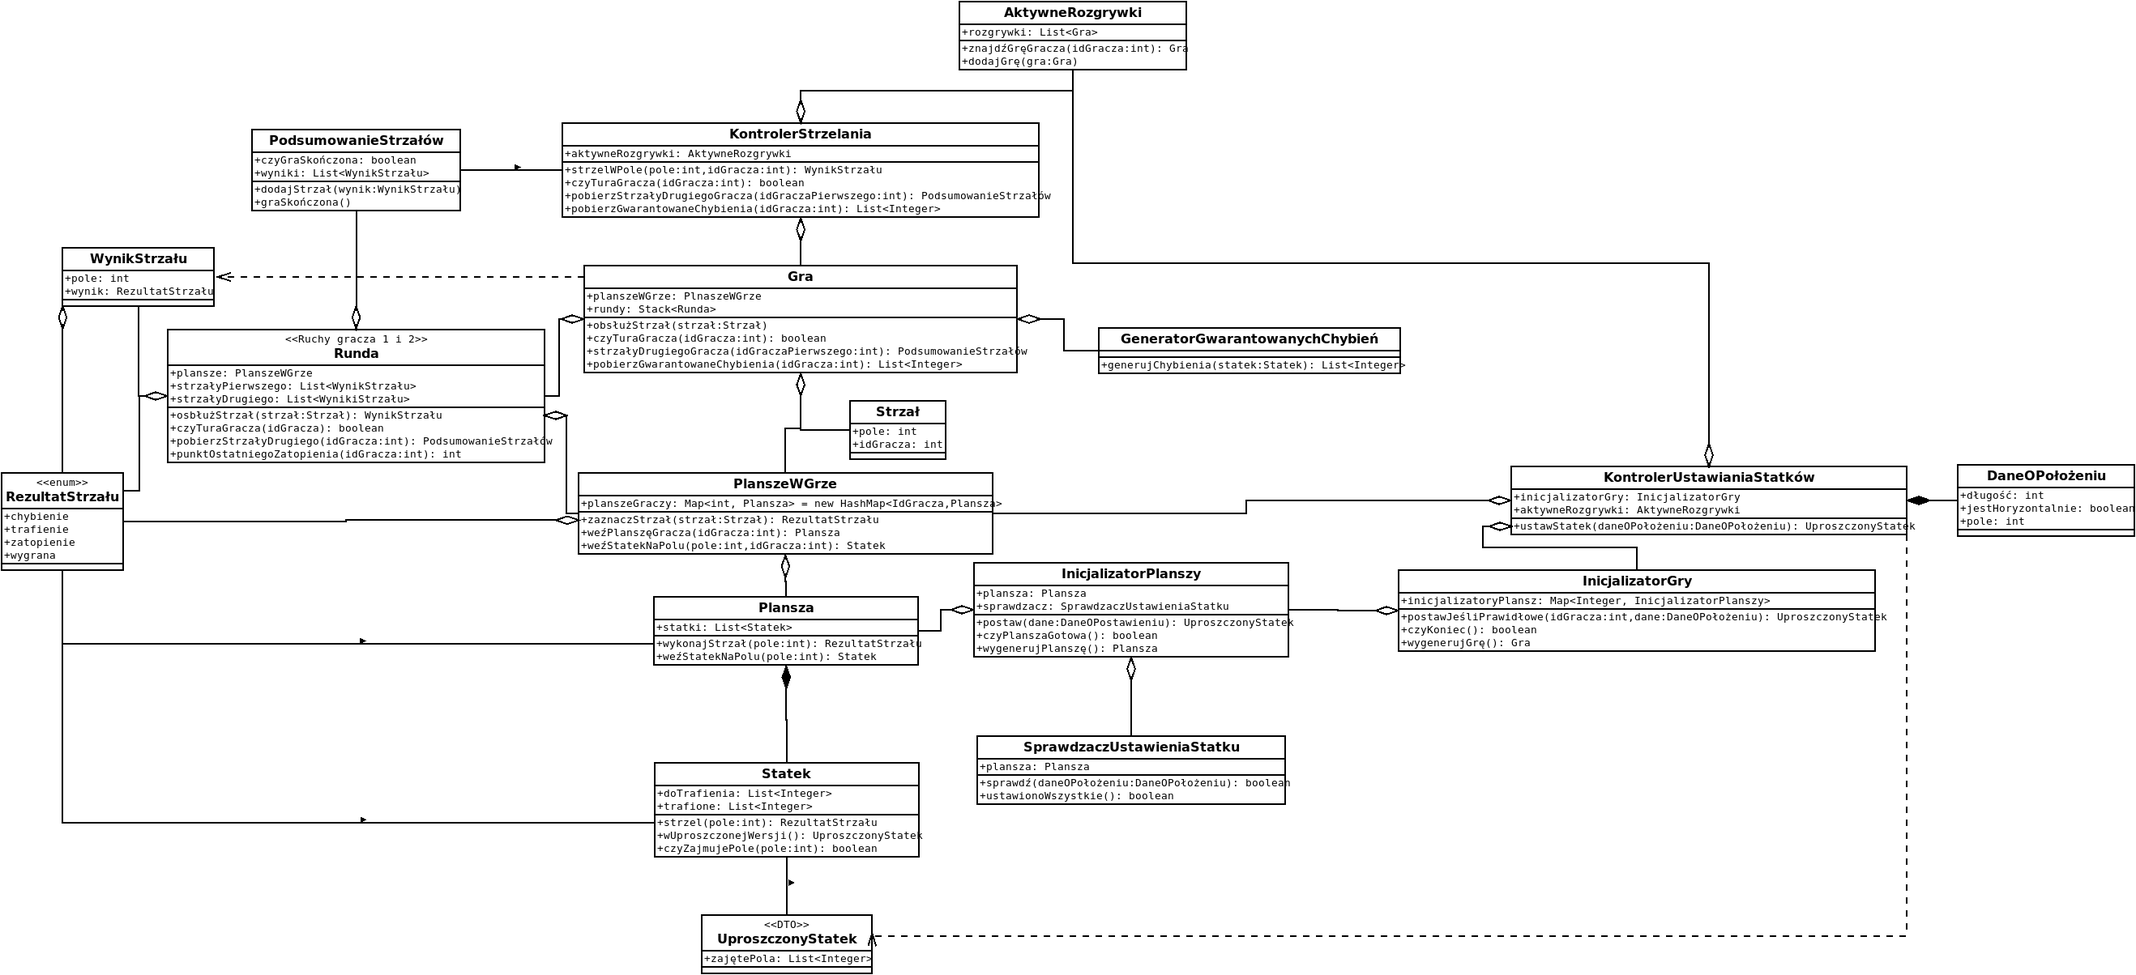
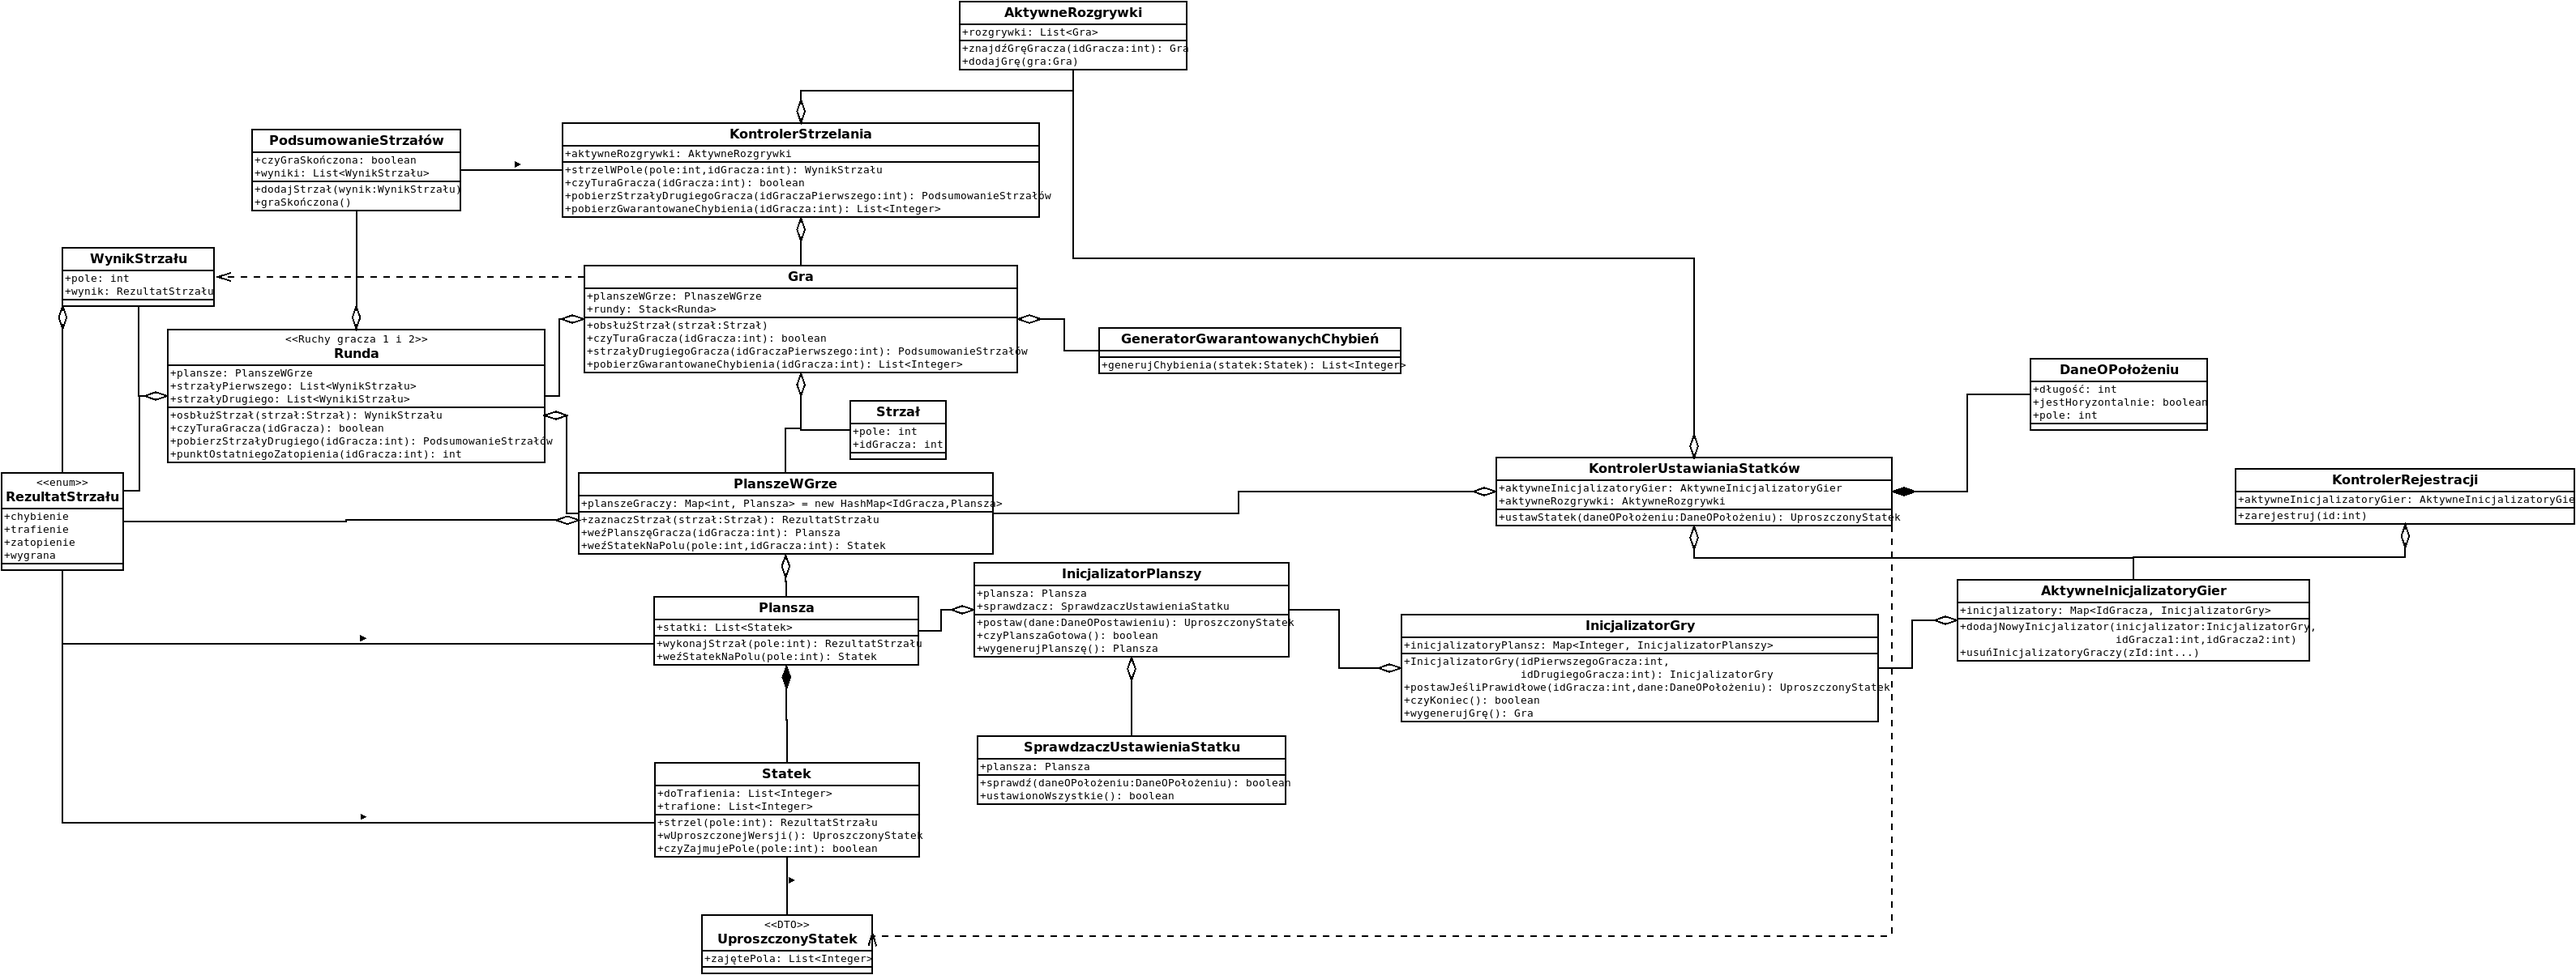
Planned registration on UML diagram - deleted stub register

diff --git a/server/src/main/java/com/sarny/spocone/server/gameControllers/ShotController.java b/server/src/main/java/com/sarny/spocone/server/gameControllers/ShotController.java
@@ -4,7 +4,6 @@ import com.google.gson.Gson;
 import com.sarny.spocone.publicclasses.shot.Shot;
 import com.sarny.spocone.publicclasses.shot.ShotsSummary;
 import com.sarny.spocone.server.game.Game;
-import com.sarny.spocone.server.game.StubRegister;
 import org.apache.logging.log4j.LogManager;
 import org.apache.logging.log4j.Logger;
 import org.springframework.beans.factory.annotation.Autowired;
@@ -23,13 +22,11 @@ class ShotController {
     private static Logger logger = LogManager.getLogger(ShotController.class);
     private final Gson gson;
     private final ActiveGames activeGames;
-    private StubRegister register;
 
     @Autowired
     public ShotController(ActiveGames activeGames) {
         this.activeGames = activeGames;
         gson = new Gson();
-        register = new StubRegister();
     }
 
     @PostMapping("/shot")
@@ -91,22 +88,4 @@ class ShotController {
         return guaranteedMissesWithUpdatedOffset;
     }
 
-    // TODO - remove once ShipPlacementController is implemented
-    @PostMapping(path = "/register")
-    public List<Integer> stubRegistration(@RequestBody Integer id) {
-        if (id == null) {
-            return null;
-        }
-        logger.info("Register player with id " + id);
-        List<Integer> fieldsWithShips = register.registerPlayer(id);
-
-
-        if (register.isRegistrationOver()) {
-            logger.info("Registration complete");
-            activeGames.addNewGame(register.finalizeCreation(), register.player1Id, register.player2Id);
-            register = new StubRegister();
-        }
-
-        return fieldsWithShips;
-    }
 }
